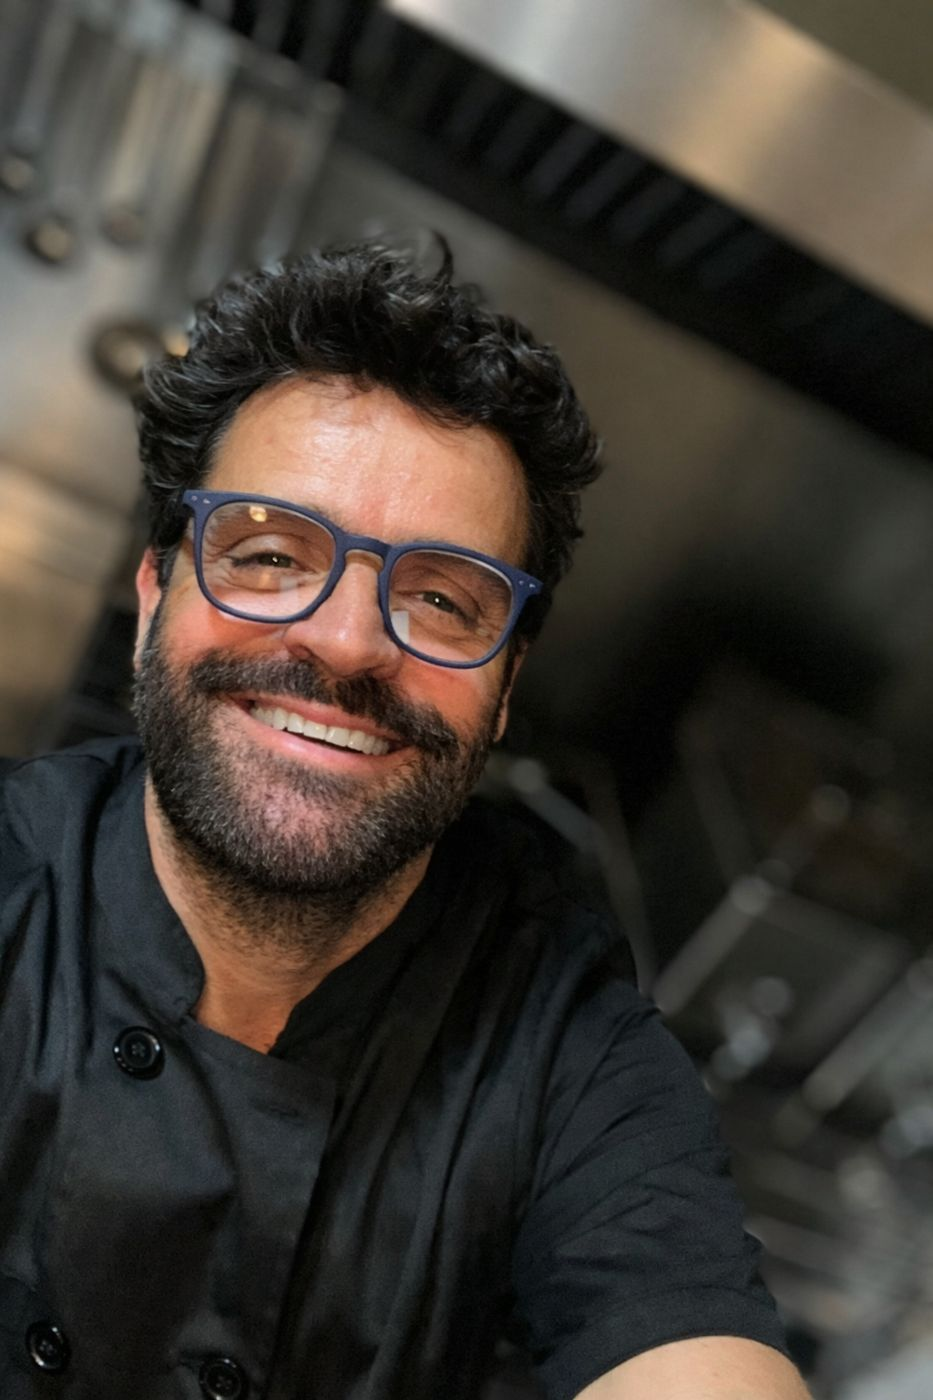
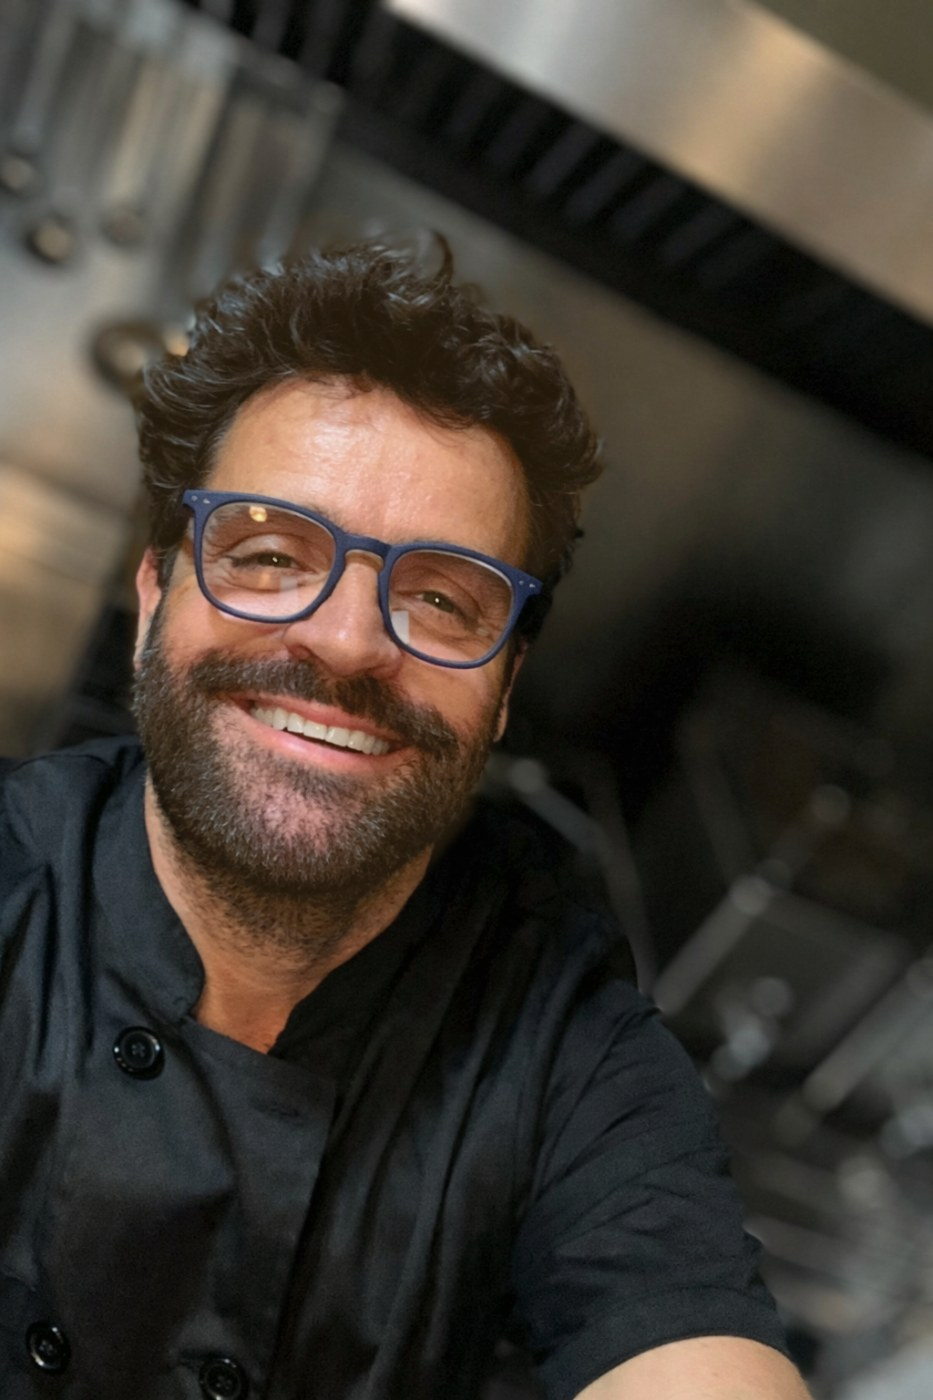
Idiomas en móvil: mundo + idioma actual, se despliega en horizontal. Foto del chef retocada (castaño, menos rojo)
Claude-Session: https://claude.ai/code/session_01RohYXQ5UvCCGkREj2PasQF

Changed region(s): [[0.2487, 0.1843, 0.6527, 0.43], [0.2487, 0.5836, 0.4973, 0.645], [0.1554, 0.2764, 0.2487, 0.3993]]

diff --git a/ca/index.html b/ca/index.html
@@ -534,8 +534,22 @@ nav .links a[aria-current]{color:var(--ink);box-shadow:inset 0 -1.5px 0 #d44119}
 @media(max-width:600px){.mnu-btn .t-open,.mnu-btn[aria-expanded="true"] .t-close{display:none}.mnu-btn{padding:0 2px 0 8px}.mnu-list>li>a{font-size:20px;gap:12px}}
 .lang a,.lang .globe,.mnu-btn{flex:none}
 @media(max-width:600px){nav .wrap{gap:14px}}
-@media(max-width:400px){.lang .globe{display:none}}
 @media(max-width:380px){nav .wrap{gap:10px}.lang{gap:6px;padding-inline-start:8px}.lang a{font-size:12px}.logo .logo-ev{height:8px}.logo img{height:31px}.mnu-btn .bars{width:22px}}
+
+/* mobile language picker: globe + current code; tap to slide the others out */
+@media(max-width:600px){
+ .lang{gap:0;cursor:pointer;-webkit-tap-highlight-color:transparent}
+ .lang .globe{margin-inline-end:6px}
+ .lang a{padding:0 5px}
+ .lang a[aria-current]{order:-1}
+ .lang .globe{order:-2}
+ .lang a:not([aria-current]){max-width:0;padding:0;opacity:0;overflow:hidden;pointer-events:none;transition:max-width .45s cubic-bezier(.65,0,.35,1),padding .45s cubic-bezier(.65,0,.35,1),opacity .3s}
+ .lang.open a:not([aria-current]){max-width:40px;padding:0 4px;opacity:1;pointer-events:auto;transition:max-width .45s cubic-bezier(.65,0,.35,1),padding .45s cubic-bezier(.65,0,.35,1),opacity .35s .1s}
+ .lang a[aria-current]::after{content:"";display:inline-block;width:5px;height:5px;border-right:1.5px solid currentColor;border-bottom:1.5px solid currentColor;transform:rotate(-45deg);margin-inline-start:5px;vertical-align:2px;transition:transform .35s}
+ .lang.open a[aria-current]::after{transform:rotate(135deg)}
+ nav:has(.lang.open) .logo .logo-ev{display:none}
+}
+@media(max-width:380px){.lang .globe{width:18px;height:18px}}
 @media(prefers-reduced-motion:reduce){.mnu,.mnu.open,.mnu .mnu-list li,.mnu .mnu-side>*{transition:none}}
 </style>
 </head>
@@ -900,6 +914,11 @@ set();addEventListener('orientationchange',()=>{last=0;setTimeout(set,300)});add
   setTimeout(()=>go(el,hash),wasOpen?120:0);
   history.replaceState(null,'',hash);
  });
+ const lang=document.querySelector('.lang'),small=matchMedia('(max-width:600px)');
+ if(lang){
+  lang.addEventListener('click',e=>{if(!small.matches)return;const a=e.target.closest('a');if(a&&!a.hasAttribute('aria-current'))return;e.preventDefault();lang.classList.toggle('open')});
+  document.addEventListener('click',e=>{if(!e.target.closest('.lang'))lang.classList.remove('open')});
+ }
  const ids=['chef','cocina','servicios','privado','bodas','empresas','metodo','platos','carta','domingos','resenas','contacto'];
  const links=[...document.querySelectorAll('nav .links a,.mnu-list>li>a')];
  const io=new IntersectionObserver(es=>es.forEach(x=>{if(!x.isIntersecting)return;const h='#'+x.target.id;links.forEach(l=>l.getAttribute('href')===h?l.setAttribute('aria-current','true'):l.removeAttribute('aria-current'))}),{rootMargin:'-45% 0px -50% 0px'});

diff --git a/en/index.html b/en/index.html
@@ -534,8 +534,22 @@ nav .links a[aria-current]{color:var(--ink);box-shadow:inset 0 -1.5px 0 #d44119}
 @media(max-width:600px){.mnu-btn .t-open,.mnu-btn[aria-expanded="true"] .t-close{display:none}.mnu-btn{padding:0 2px 0 8px}.mnu-list>li>a{font-size:20px;gap:12px}}
 .lang a,.lang .globe,.mnu-btn{flex:none}
 @media(max-width:600px){nav .wrap{gap:14px}}
-@media(max-width:400px){.lang .globe{display:none}}
 @media(max-width:380px){nav .wrap{gap:10px}.lang{gap:6px;padding-inline-start:8px}.lang a{font-size:12px}.logo .logo-ev{height:8px}.logo img{height:31px}.mnu-btn .bars{width:22px}}
+
+/* mobile language picker: globe + current code; tap to slide the others out */
+@media(max-width:600px){
+ .lang{gap:0;cursor:pointer;-webkit-tap-highlight-color:transparent}
+ .lang .globe{margin-inline-end:6px}
+ .lang a{padding:0 5px}
+ .lang a[aria-current]{order:-1}
+ .lang .globe{order:-2}
+ .lang a:not([aria-current]){max-width:0;padding:0;opacity:0;overflow:hidden;pointer-events:none;transition:max-width .45s cubic-bezier(.65,0,.35,1),padding .45s cubic-bezier(.65,0,.35,1),opacity .3s}
+ .lang.open a:not([aria-current]){max-width:40px;padding:0 4px;opacity:1;pointer-events:auto;transition:max-width .45s cubic-bezier(.65,0,.35,1),padding .45s cubic-bezier(.65,0,.35,1),opacity .35s .1s}
+ .lang a[aria-current]::after{content:"";display:inline-block;width:5px;height:5px;border-right:1.5px solid currentColor;border-bottom:1.5px solid currentColor;transform:rotate(-45deg);margin-inline-start:5px;vertical-align:2px;transition:transform .35s}
+ .lang.open a[aria-current]::after{transform:rotate(135deg)}
+ nav:has(.lang.open) .logo .logo-ev{display:none}
+}
+@media(max-width:380px){.lang .globe{width:18px;height:18px}}
 @media(prefers-reduced-motion:reduce){.mnu,.mnu.open,.mnu .mnu-list li,.mnu .mnu-side>*{transition:none}}
 </style>
 </head>
@@ -900,6 +914,11 @@ set();addEventListener('orientationchange',()=>{last=0;setTimeout(set,300)});add
   setTimeout(()=>go(el,hash),wasOpen?120:0);
   history.replaceState(null,'',hash);
  });
+ const lang=document.querySelector('.lang'),small=matchMedia('(max-width:600px)');
+ if(lang){
+  lang.addEventListener('click',e=>{if(!small.matches)return;const a=e.target.closest('a');if(a&&!a.hasAttribute('aria-current'))return;e.preventDefault();lang.classList.toggle('open')});
+  document.addEventListener('click',e=>{if(!e.target.closest('.lang'))lang.classList.remove('open')});
+ }
  const ids=['chef','cocina','servicios','privado','bodas','empresas','metodo','platos','carta','domingos','resenas','contacto'];
  const links=[...document.querySelectorAll('nav .links a,.mnu-list>li>a')];
  const io=new IntersectionObserver(es=>es.forEach(x=>{if(!x.isIntersecting)return;const h='#'+x.target.id;links.forEach(l=>l.getAttribute('href')===h?l.setAttribute('aria-current','true'):l.removeAttribute('aria-current'))}),{rootMargin:'-45% 0px -50% 0px'});

diff --git a/fr/index.html b/fr/index.html
@@ -534,8 +534,22 @@ nav .links a[aria-current]{color:var(--ink);box-shadow:inset 0 -1.5px 0 #d44119}
 @media(max-width:600px){.mnu-btn .t-open,.mnu-btn[aria-expanded="true"] .t-close{display:none}.mnu-btn{padding:0 2px 0 8px}.mnu-list>li>a{font-size:20px;gap:12px}}
 .lang a,.lang .globe,.mnu-btn{flex:none}
 @media(max-width:600px){nav .wrap{gap:14px}}
-@media(max-width:400px){.lang .globe{display:none}}
 @media(max-width:380px){nav .wrap{gap:10px}.lang{gap:6px;padding-inline-start:8px}.lang a{font-size:12px}.logo .logo-ev{height:8px}.logo img{height:31px}.mnu-btn .bars{width:22px}}
+
+/* mobile language picker: globe + current code; tap to slide the others out */
+@media(max-width:600px){
+ .lang{gap:0;cursor:pointer;-webkit-tap-highlight-color:transparent}
+ .lang .globe{margin-inline-end:6px}
+ .lang a{padding:0 5px}
+ .lang a[aria-current]{order:-1}
+ .lang .globe{order:-2}
+ .lang a:not([aria-current]){max-width:0;padding:0;opacity:0;overflow:hidden;pointer-events:none;transition:max-width .45s cubic-bezier(.65,0,.35,1),padding .45s cubic-bezier(.65,0,.35,1),opacity .3s}
+ .lang.open a:not([aria-current]){max-width:40px;padding:0 4px;opacity:1;pointer-events:auto;transition:max-width .45s cubic-bezier(.65,0,.35,1),padding .45s cubic-bezier(.65,0,.35,1),opacity .35s .1s}
+ .lang a[aria-current]::after{content:"";display:inline-block;width:5px;height:5px;border-right:1.5px solid currentColor;border-bottom:1.5px solid currentColor;transform:rotate(-45deg);margin-inline-start:5px;vertical-align:2px;transition:transform .35s}
+ .lang.open a[aria-current]::after{transform:rotate(135deg)}
+ nav:has(.lang.open) .logo .logo-ev{display:none}
+}
+@media(max-width:380px){.lang .globe{width:18px;height:18px}}
 @media(prefers-reduced-motion:reduce){.mnu,.mnu.open,.mnu .mnu-list li,.mnu .mnu-side>*{transition:none}}
 </style>
 </head>
@@ -900,6 +914,11 @@ set();addEventListener('orientationchange',()=>{last=0;setTimeout(set,300)});add
   setTimeout(()=>go(el,hash),wasOpen?120:0);
   history.replaceState(null,'',hash);
  });
+ const lang=document.querySelector('.lang'),small=matchMedia('(max-width:600px)');
+ if(lang){
+  lang.addEventListener('click',e=>{if(!small.matches)return;const a=e.target.closest('a');if(a&&!a.hasAttribute('aria-current'))return;e.preventDefault();lang.classList.toggle('open')});
+  document.addEventListener('click',e=>{if(!e.target.closest('.lang'))lang.classList.remove('open')});
+ }
  const ids=['chef','cocina','servicios','privado','bodas','empresas','metodo','platos','carta','domingos','resenas','contacto'];
  const links=[...document.querySelectorAll('nav .links a,.mnu-list>li>a')];
  const io=new IntersectionObserver(es=>es.forEach(x=>{if(!x.isIntersecting)return;const h='#'+x.target.id;links.forEach(l=>l.getAttribute('href')===h?l.setAttribute('aria-current','true'):l.removeAttribute('aria-current'))}),{rootMargin:'-45% 0px -50% 0px'});

diff --git a/fuente/plantilla.html b/fuente/plantilla.html
@@ -533,8 +533,22 @@ nav .links a[aria-current]{color:var(--ink);box-shadow:inset 0 -1.5px 0 #d44119}
 @media(max-width:600px){.mnu-btn .t-open,.mnu-btn[aria-expanded="true"] .t-close{display:none}.mnu-btn{padding:0 2px 0 8px}.mnu-list>li>a{font-size:20px;gap:12px}}
 .lang a,.lang .globe,.mnu-btn{flex:none}
 @media(max-width:600px){nav .wrap{gap:14px}}
-@media(max-width:400px){.lang .globe{display:none}}
 @media(max-width:380px){nav .wrap{gap:10px}.lang{gap:6px;padding-inline-start:8px}.lang a{font-size:12px}.logo .logo-ev{height:8px}.logo img{height:31px}.mnu-btn .bars{width:22px}}
+
+/* mobile language picker: globe + current code; tap to slide the others out */
+@media(max-width:600px){
+ .lang{gap:0;cursor:pointer;-webkit-tap-highlight-color:transparent}
+ .lang .globe{margin-inline-end:6px}
+ .lang a{padding:0 5px}
+ .lang a[aria-current]{order:-1}
+ .lang .globe{order:-2}
+ .lang a:not([aria-current]){max-width:0;padding:0;opacity:0;overflow:hidden;pointer-events:none;transition:max-width .45s cubic-bezier(.65,0,.35,1),padding .45s cubic-bezier(.65,0,.35,1),opacity .3s}
+ .lang.open a:not([aria-current]){max-width:40px;padding:0 4px;opacity:1;pointer-events:auto;transition:max-width .45s cubic-bezier(.65,0,.35,1),padding .45s cubic-bezier(.65,0,.35,1),opacity .35s .1s}
+ .lang a[aria-current]::after{content:"";display:inline-block;width:5px;height:5px;border-right:1.5px solid currentColor;border-bottom:1.5px solid currentColor;transform:rotate(-45deg);margin-inline-start:5px;vertical-align:2px;transition:transform .35s}
+ .lang.open a[aria-current]::after{transform:rotate(135deg)}
+ nav:has(.lang.open) .logo .logo-ev{display:none}
+}
+@media(max-width:380px){.lang .globe{width:18px;height:18px}}
 @media(prefers-reduced-motion:reduce){.mnu,.mnu.open,.mnu .mnu-list li,.mnu .mnu-side>*{transition:none}}
 </style>
 </head>
@@ -899,6 +913,11 @@ set();addEventListener('orientationchange',()=>{last=0;setTimeout(set,300)});add
   setTimeout(()=>go(el,hash),wasOpen?120:0);
   history.replaceState(null,'',hash);
  });
+ const lang=document.querySelector('.lang'),small=matchMedia('(max-width:600px)');
+ if(lang){
+  lang.addEventListener('click',e=>{if(!small.matches)return;const a=e.target.closest('a');if(a&&!a.hasAttribute('aria-current'))return;e.preventDefault();lang.classList.toggle('open')});
+  document.addEventListener('click',e=>{if(!e.target.closest('.lang'))lang.classList.remove('open')});
+ }
  const ids=['chef','cocina','servicios','privado','bodas','empresas','metodo','platos','carta','domingos','resenas','contacto'];
  const links=[...document.querySelectorAll('nav .links a,.mnu-list>li>a')];
  const io=new IntersectionObserver(es=>es.forEach(x=>{if(!x.isIntersecting)return;const h='#'+x.target.id;links.forEach(l=>l.getAttribute('href')===h?l.setAttribute('aria-current','true'):l.removeAttribute('aria-current'))}),{rootMargin:'-45% 0px -50% 0px'});

diff --git a/index.html b/index.html
@@ -534,8 +534,22 @@ nav .links a[aria-current]{color:var(--ink);box-shadow:inset 0 -1.5px 0 #d44119}
 @media(max-width:600px){.mnu-btn .t-open,.mnu-btn[aria-expanded="true"] .t-close{display:none}.mnu-btn{padding:0 2px 0 8px}.mnu-list>li>a{font-size:20px;gap:12px}}
 .lang a,.lang .globe,.mnu-btn{flex:none}
 @media(max-width:600px){nav .wrap{gap:14px}}
-@media(max-width:400px){.lang .globe{display:none}}
 @media(max-width:380px){nav .wrap{gap:10px}.lang{gap:6px;padding-inline-start:8px}.lang a{font-size:12px}.logo .logo-ev{height:8px}.logo img{height:31px}.mnu-btn .bars{width:22px}}
+
+/* mobile language picker: globe + current code; tap to slide the others out */
+@media(max-width:600px){
+ .lang{gap:0;cursor:pointer;-webkit-tap-highlight-color:transparent}
+ .lang .globe{margin-inline-end:6px}
+ .lang a{padding:0 5px}
+ .lang a[aria-current]{order:-1}
+ .lang .globe{order:-2}
+ .lang a:not([aria-current]){max-width:0;padding:0;opacity:0;overflow:hidden;pointer-events:none;transition:max-width .45s cubic-bezier(.65,0,.35,1),padding .45s cubic-bezier(.65,0,.35,1),opacity .3s}
+ .lang.open a:not([aria-current]){max-width:40px;padding:0 4px;opacity:1;pointer-events:auto;transition:max-width .45s cubic-bezier(.65,0,.35,1),padding .45s cubic-bezier(.65,0,.35,1),opacity .35s .1s}
+ .lang a[aria-current]::after{content:"";display:inline-block;width:5px;height:5px;border-right:1.5px solid currentColor;border-bottom:1.5px solid currentColor;transform:rotate(-45deg);margin-inline-start:5px;vertical-align:2px;transition:transform .35s}
+ .lang.open a[aria-current]::after{transform:rotate(135deg)}
+ nav:has(.lang.open) .logo .logo-ev{display:none}
+}
+@media(max-width:380px){.lang .globe{width:18px;height:18px}}
 @media(prefers-reduced-motion:reduce){.mnu,.mnu.open,.mnu .mnu-list li,.mnu .mnu-side>*{transition:none}}
 </style>
 </head>
@@ -900,6 +914,11 @@ set();addEventListener('orientationchange',()=>{last=0;setTimeout(set,300)});add
   setTimeout(()=>go(el,hash),wasOpen?120:0);
   history.replaceState(null,'',hash);
  });
+ const lang=document.querySelector('.lang'),small=matchMedia('(max-width:600px)');
+ if(lang){
+  lang.addEventListener('click',e=>{if(!small.matches)return;const a=e.target.closest('a');if(a&&!a.hasAttribute('aria-current'))return;e.preventDefault();lang.classList.toggle('open')});
+  document.addEventListener('click',e=>{if(!e.target.closest('.lang'))lang.classList.remove('open')});
+ }
  const ids=['chef','cocina','servicios','privado','bodas','empresas','metodo','platos','carta','domingos','resenas','contacto'];
  const links=[...document.querySelectorAll('nav .links a,.mnu-list>li>a')];
  const io=new IntersectionObserver(es=>es.forEach(x=>{if(!x.isIntersecting)return;const h='#'+x.target.id;links.forEach(l=>l.getAttribute('href')===h?l.setAttribute('aria-current','true'):l.removeAttribute('aria-current'))}),{rootMargin:'-45% 0px -50% 0px'});
